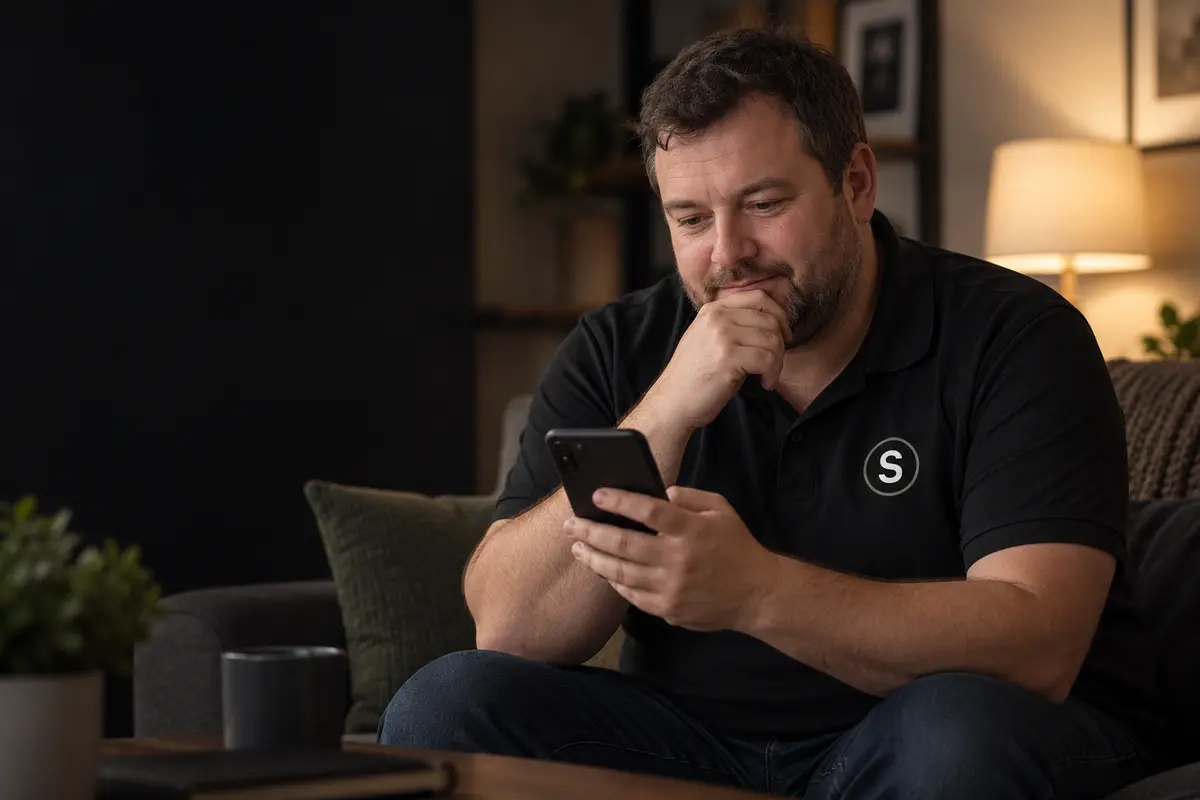
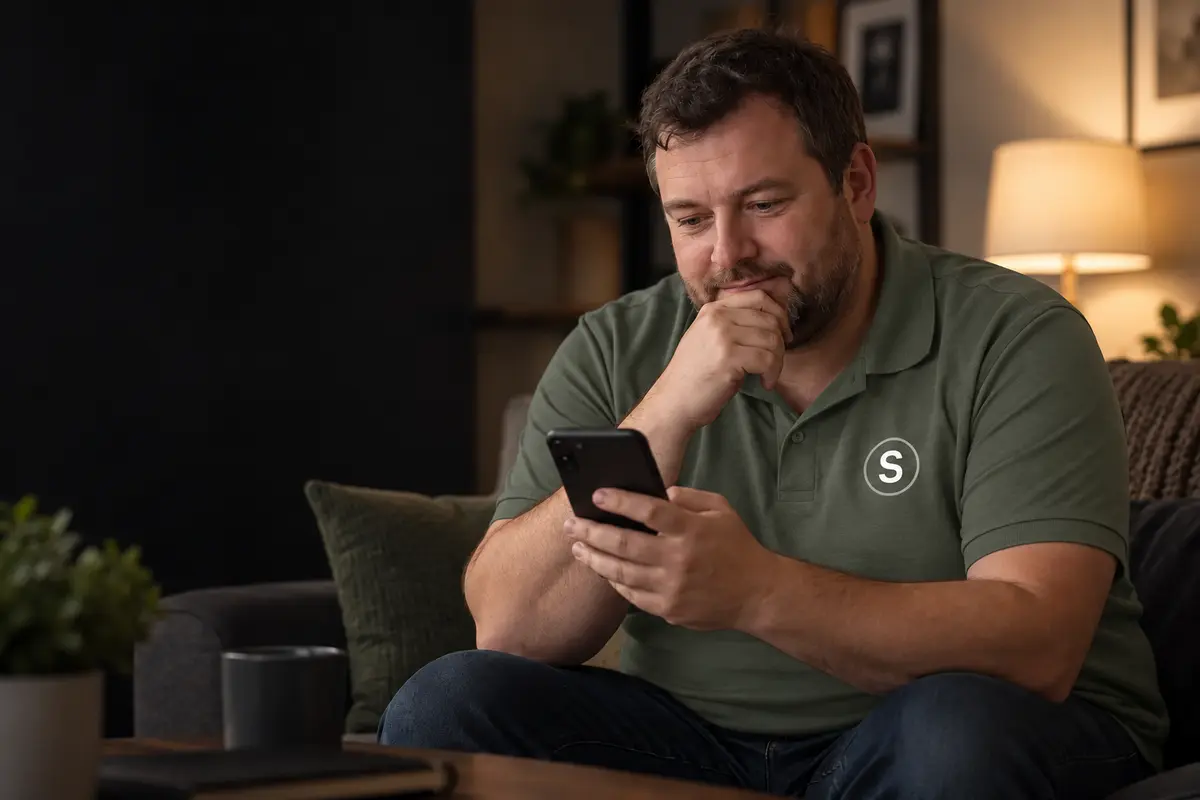
Finish SHIFT Health product pages and approved imagery

diff --git a/frontend/member/shift-health-catalogue-v1.js b/frontend/member/shift-health-catalogue-v1.js
@@ -802,10 +802,47 @@ if (item) {
     faq = FAQ[slug],
     detail = DETAILS[slug],
     evidence = EVIDENCE[slug];
-  document.title = `${item.name} | SHIFT Health`;
+  const pageUrl = `https://shiftsometimber.co.uk/shift-health/${slug}`;
+  const pageTitle = `${item.name} | SHIFT Health`;
+  const pageDescription = item.intro;
+  const pageImage = "https:" + "//shiftsometimber.co.uk" + MEDIA[slug];
+  const setMeta = (selector, attribute, value) => {
+    let node = document.head.querySelector(selector);
+    if (!node) {
+      node = document.createElement("meta");
+      const match = selector.match(/meta\[(name|property)="([^"]+)"\]/);
+      if (match) node.setAttribute(match[1], match[2]);
+      document.head.appendChild(node);
+    }
+    node.setAttribute(attribute, value);
+  };
+  document.title = pageTitle;
+  document.querySelector('link[rel="canonical"]').href = pageUrl;
+  setMeta('meta[name="description"]', "content", pageDescription);
+  setMeta('meta[property="og:title"]', "content", pageTitle);
+  setMeta('meta[property="og:description"]', "content", pageDescription);
+  setMeta('meta[property="og:url"]', "content", pageUrl);
+  setMeta('meta[property="og:image"]', "content", pageImage);
+  setMeta('meta[name="twitter:title"]', "content", pageTitle);
+  setMeta('meta[name="twitter:description"]', "content", pageDescription);
+  setMeta('meta[name="twitter:image"]', "content", pageImage);
+  const schema = document.createElement("script");
+  schema.type = "application/ld+json";
+  schema.dataset.shiftHealthSchema = "v1";
+  schema.textContent = JSON.stringify({
+    "@context": "https://schema.org",
+    "@type": "WebPage",
+    name: item.name,
+    description: pageDescription,
+    url: pageUrl,
+    image: pageImage,
+    isPartOf: { "@id": "https://shiftsometimber.co.uk/#website" },
+    publisher: { "@id": "https://shiftsometimber.co.uk/#organization" },
+  });
+  document.head.appendChild(schema);
   document.querySelector("[data-product]").innerHTML =
     `<a class="back" href="/shift-health">← SHIFT Health</a>
-    <section class="productHero"><div><small>${esc(item.family)} · ${esc(item.code)}</small><h1>${esc(item.name)}</h1><p class="job">${esc(item.job)}</p><p>${esc(item.intro)}</p><div class="availability"><span>AVAILABILITY</span><strong>Currently out of stock</strong><span>Leave your details once and we’ll tell you when it returns.</span></div><div class="actions"><a class="btn" href="/contact?type=Stock%20update&product=${encodeURIComponent(item.code)}">Tell me when it’s back</a><a class="btn alt" href="/member/dashboard#journey">Add this to My Timber</a></div></div><figure class="visual"><img src="${MEDIA[slug]}" alt="Editorial illustration for ${esc(item.name)}" width="1200" height="800"><figcaption>Editorial image · exact supplied item confirmed when stocked</figcaption></figure></section>
+    <section class="productHero"><div><small>${esc(item.family)} · ${esc(item.code)}</small><h1>${esc(item.name)}</h1><p class="job">${esc(item.job)}</p><p>${esc(item.intro)}</p><div class="availability"><span>AVAILABILITY</span><strong>Currently out of stock</strong><span>Leave your details once and we’ll tell you when it returns.</span></div><div class="actions"><a class="btn" href="/contact?type=Stock%20update&product=${encodeURIComponent(item.code)}&name=${encodeURIComponent(item.name)}">Tell me when it’s back</a><a class="btn alt" data-save-shift-health href="/member/dashboard?shift_health=${encodeURIComponent(slug)}#journey">Add this to My Timber</a></div></div><figure class="visual"><img src="${MEDIA[slug]}" alt="${esc(item.name)}" width="1200" height="800"></figure></section>
     <nav class="jump" aria-label="On this page"><a href="#understand">What it is</a><a href="#included">What you get</a><a href="#decide">Is it right?</a><a href="#evidence">Evidence</a><a href="#journey">Your Journey</a><a href="#process">What happens</a><a href="#questions">Questions</a></nav>
     <section id="understand"><small>01 · UNDERSTAND IT</small><h2>Know what you’re choosing.</h2><p class="sectionCopy">${esc(detail.understand)}</p></section>
     <section id="included"><small>02 · WHAT YOU GET</small><h2>More than an item in a box.</h2><div class="detailGrid"><article class="detailCard"><b>Included in the route</b><ul>${detail.included.map((x) => `<li>${esc(x)}</li>`).join("")}</ul></article><article class="detailCard"><b>How to get a useful result</b><ul>${detail.choices.map((x) => `<li>${esc(x)}</li>`).join("")}</ul></article></div></section>
@@ -816,7 +853,15 @@ if (item) {
     <section class="journey" id="journey"><small>05 · WHERE IT FITS</small><h2>${esc(journey[0])}</h2><div class="journeyGrid"><div><b>What My Timber keeps</b><p>${esc(journey[1])}</p></div><div><b>Your Next Shift</b><p>${esc(journey[2])}</p></div></div></section>
     <section id="process"><small>06 · WHAT HAPPENS NEXT</small><h2>One clear route. No mystery hand-offs.</h2><ol class="steps">${item.steps.map((x, i) => `<li><b>0${i + 1}</b><span>${esc(x)}</span></li>`).join("")}</ol></section>
     <section id="questions"><small>07 · USEFUL QUESTIONS</small><h2>Before you decide.</h2><div class="faqs">${faq.map((x) => `<details><summary>${esc(x[0])}</summary><p>${esc(x[1])}</p></details>`).join("")}</div></section>
-    <section class="next"><small>MY NEXT SHIFT</small><h2>Keep it connected to the reason you started.</h2><p>My Timber keeps the result, your priorities and one useful next step together. It becomes part of your Journey—not another purchase you forget about in a drawer.</p><div class="actions"><a class="btn" href="/member/dashboard#journey">Open My Timber</a><a class="btn alt" href="/contact?type=Stock%20update&product=${encodeURIComponent(item.code)}">Tell me when it’s back</a></div></section>`;
+    <section class="next"><small>MY NEXT SHIFT</small><h2>Keep it connected to the reason you started.</h2><p>My Timber keeps the result, your priorities and one useful next step together. It becomes part of your Journey—not another purchase you forget about in a drawer.</p><div class="actions"><a class="btn" data-save-shift-health href="/member/dashboard?shift_health=${encodeURIComponent(slug)}#journey">Open My Timber</a><a class="btn alt" href="/contact?type=Stock%20update&product=${encodeURIComponent(item.code)}&name=${encodeURIComponent(item.name)}">Tell me when it’s back</a></div></section>`;
+  document.querySelectorAll("[data-save-shift-health]").forEach((link) =>
+    link.addEventListener("click", () => {
+      localStorage.setItem(
+        "sst_shift_health_interest_v1",
+        JSON.stringify({ slug, code: item.code, name: item.name, savedAt: new Date().toISOString() }),
+      );
+    }),
+  );
 } else
   document.querySelector("[data-product]").innerHTML =
     '<h1>That SHIFT Health route could not be found.</h1><a class="btn" href="/shift-health">Back to SHIFT Health</a>';

diff --git a/frontend/member/shift-health-product.html b/frontend/member/shift-health-product.html
@@ -8,6 +8,17 @@
       name="description"
       content="Straight-talking wider men’s health from SHIFT."
     />
+    <link rel="canonical" href="https://shiftsometimber.co.uk/shift-health" />
+    <meta property="og:type" content="website" />
+    <meta property="og:site_name" content="Shift Some Timber" />
+    <meta property="og:title" content="SHIFT Health" />
+    <meta property="og:description" content="Straight-talking wider men’s health from SHIFT." />
+    <meta property="og:url" content="https://shiftsometimber.co.uk/shift-health" />
+    <meta property="og:image" content="https://shiftsometimber.co.uk/assets/og-default.jpg" />
+    <meta name="twitter:card" content="summary_large_image" />
+    <meta name="twitter:title" content="SHIFT Health" />
+    <meta name="twitter:description" content="Straight-talking wider men’s health from SHIFT." />
+    <meta name="twitter:image" content="https://shiftsometimber.co.uk/assets/og-default.jpg" />
     <style>
       :root {
         --b: #050505;
@@ -54,6 +65,10 @@
       nav {
         display: flex;
         gap: 18px;
+      }
+      .menuButton,
+      .mobileNav {
+        display: none;
       }
       nav a {
         text-decoration: none;
@@ -241,6 +256,33 @@
         .head nav {
           display: none;
         }
+        .menuButton {
+          display: inline-flex;
+          min-height: 44px;
+          align-items: center;
+          padding: 9px 14px;
+          border: 1px solid var(--g);
+          border-radius: 999px;
+          background: transparent;
+          color: var(--c);
+          font: inherit;
+          font-weight: 900;
+        }
+        .mobileNav[aria-hidden="false"] {
+          display: grid;
+          gap: 0;
+          padding: 0 18px 16px;
+          border-bottom: 1px solid var(--g);
+          background: var(--b);
+        }
+        .mobileNav a {
+          min-height: 44px;
+          display: flex;
+          align-items: center;
+          border-bottom: 1px solid #292c27;
+          text-decoration: none;
+          font-weight: 850;
+        }
         .productHero,
         .two {
           grid-template-columns: 1fr;
@@ -423,8 +465,17 @@
           ><a href="/explore-knowledge">Knowledge</a><a href="/about">About</a
           ><a href="/member/dashboard">My Timber</a>
         </nav>
+        <button class="menuButton" type="button" aria-expanded="false" aria-controls="shiftHealthMobileMenu">Menu</button>
       </div>
     </header>
+    <nav class="mobileNav" id="shiftHealthMobileMenu" aria-label="Mobile primary" aria-hidden="true">
+      <a href="/start-here">Start Here</a>
+      <a href="/programme">The Programme</a>
+      <a href="/shift-health">SHIFT Health</a>
+      <a href="/explore-knowledge">Knowledge</a>
+      <a href="/about">About</a>
+      <a href="/member/dashboard">My Timber</a>
+    </nav>
     <main class="wrap" data-product></main>
     <footer class="footer">
       <div class="wrap">
@@ -444,6 +495,19 @@
         </p>
       </div>
     </footer>
-    <script src="/shift-health-catalogue-v1.js"></script>
+    <script src="/shift-health-catalogue-v1.js?v=2"></script>
+    <script>
+      (function () {
+        const button = document.querySelector('.menuButton');
+        const menu = document.getElementById('shiftHealthMobileMenu');
+        if (!button || !menu) return;
+        button.addEventListener('click', function () {
+          const open = button.getAttribute('aria-expanded') !== 'true';
+          button.setAttribute('aria-expanded', String(open));
+          button.textContent = open ? 'Close' : 'Menu';
+          menu.setAttribute('aria-hidden', String(!open));
+        });
+      })();
+    </script>
   </body>
 </html>
